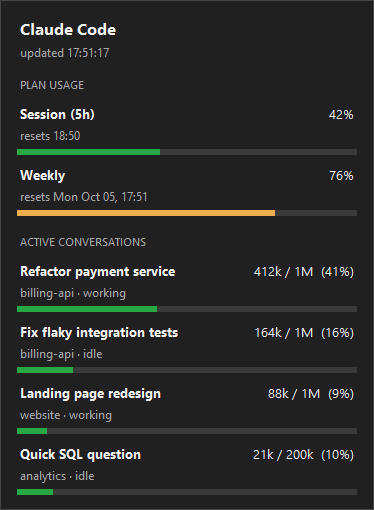
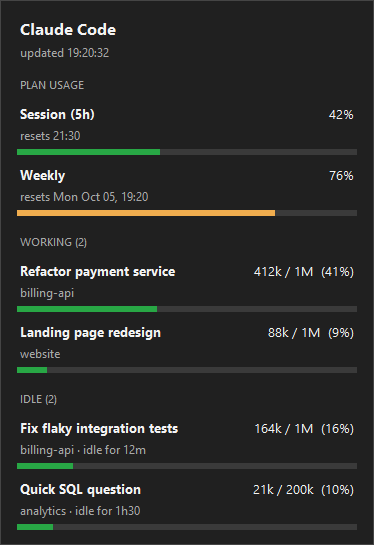
Split working and idle conversations into separate groups

diff --git a/claude_usage_tray.py b/claude_usage_tray.py
@@ -74,7 +74,11 @@ class Conversation:
     @property
     def sort_key(self):
         # working first, then larger context, then most recently active
-        return (self.status != "busy", -(self.percent or 0), -self.status_since)
+        return (self.idle, -(self.percent or 0), -self.status_since)
+
+    @property
+    def idle(self) -> bool:
+        return self.status == "idle"
 
     @property
     def percent(self) -> float | None:
@@ -384,16 +388,22 @@ class DetailsPanel:
         if error:
             self._label(body, f"⚠ {error}", size=9, pady=(self._px(6), 0))
 
-        self._label(body, "ACTIVE CONVERSATIONS", muted=True, size=8, pady=(self._px(16), 0))
-        if not convs:
-            self._label(body, "none", muted=True, pady=(self._px(6), 0))
-        for c in convs:
-            status = STATUS_LABELS.get(c.status, c.status)
-            if c.status == "idle" and c.status_since:
-                status += f" {fmt_duration(time.time() - c.status_since)}"
-            ctx = (f"{fmt_tokens(c.used)} / {fmt_tokens(c.window)}  ({c.percent:.0f}%)"
-                   if c.used is not None else "no data yet")
-            self._row(body, shorten(c.title, 34), ctx, c.percent, f"{c.project} · {status}")
+        for heading, group in (("WORKING", [c for c in convs if not c.idle]),
+                               ("IDLE", [c for c in convs if c.idle])):
+            self._label(body, f"{heading} ({len(group)})", muted=True, size=8,
+                        pady=(self._px(16), 0))
+            if not group:
+                self._label(body, "none", muted=True, pady=(self._px(6), 0))
+            for c in group:
+                if c.idle and c.status_since:
+                    sub = f"{c.project} · idle for {fmt_duration(time.time() - c.status_since)}"
+                elif c.status in ("busy", "idle"):
+                    sub = c.project
+                else:
+                    sub = f"{c.project} · {STATUS_LABELS.get(c.status, c.status)}"
+                ctx = (f"{fmt_tokens(c.used)} / {fmt_tokens(c.window)}  ({c.percent:.0f}%)"
+                       if c.used is not None else "no data yet")
+                self._row(body, shorten(c.title, 34), ctx, c.percent, sub)
 
         self.root.update_idletasks()
         w, h = self.root.winfo_reqwidth(), self.root.winfo_reqheight()
@@ -499,8 +509,10 @@ class TrayApp:
 
         parts = [f"{l.label.split(' ')[0]} {l.percent:.0f}%" for l in limits]
         ctx = [c.percent for c in convs if c.percent is not None]
-        parts.append(f"{len(convs)} conversation(s), max context {max(ctx):.0f}%" if ctx
-                     else f"{len(convs)} conversation(s)")
+        working = sum(not c.idle for c in convs)
+        parts.append(f"{working} working, {len(convs) - working} idle")
+        if ctx:
+            parts.append(f"max context {max(ctx):.0f}%")
         if error:
             parts.append(error)
         self.icon.title = ("Claude Code: " + " · ".join(parts))[:127]

diff --git a/README.md b/README.md
@@ -11,7 +11,7 @@ A small Windows system tray app that shows your **Claude plan usage** (the same 
   <img src="docs/icons.png" alt="Tray icon in green, amber and red" height="32">
 
 - **Hover:** a one-line summary.
-- **Left click:** a details panel with session and weekly limits, their reset times, and each open conversation with its title, project, status and context usage. Conversations are sorted with working ones first, then by context usage (largest first), then by most recent activity.
+- **Left click:** a details panel with session and weekly limits, their reset times, and your open conversations with their title, project and context usage. Working and idle conversations are in separate groups, sorted by context usage (largest first) and then by most recent activity. Idle ones show how long they've been idle.
 - **Right click:** Details, Refresh now, Quit.
 - **Notifications:** a Windows notification when a plan limit crosses 80% and 95%.
 
